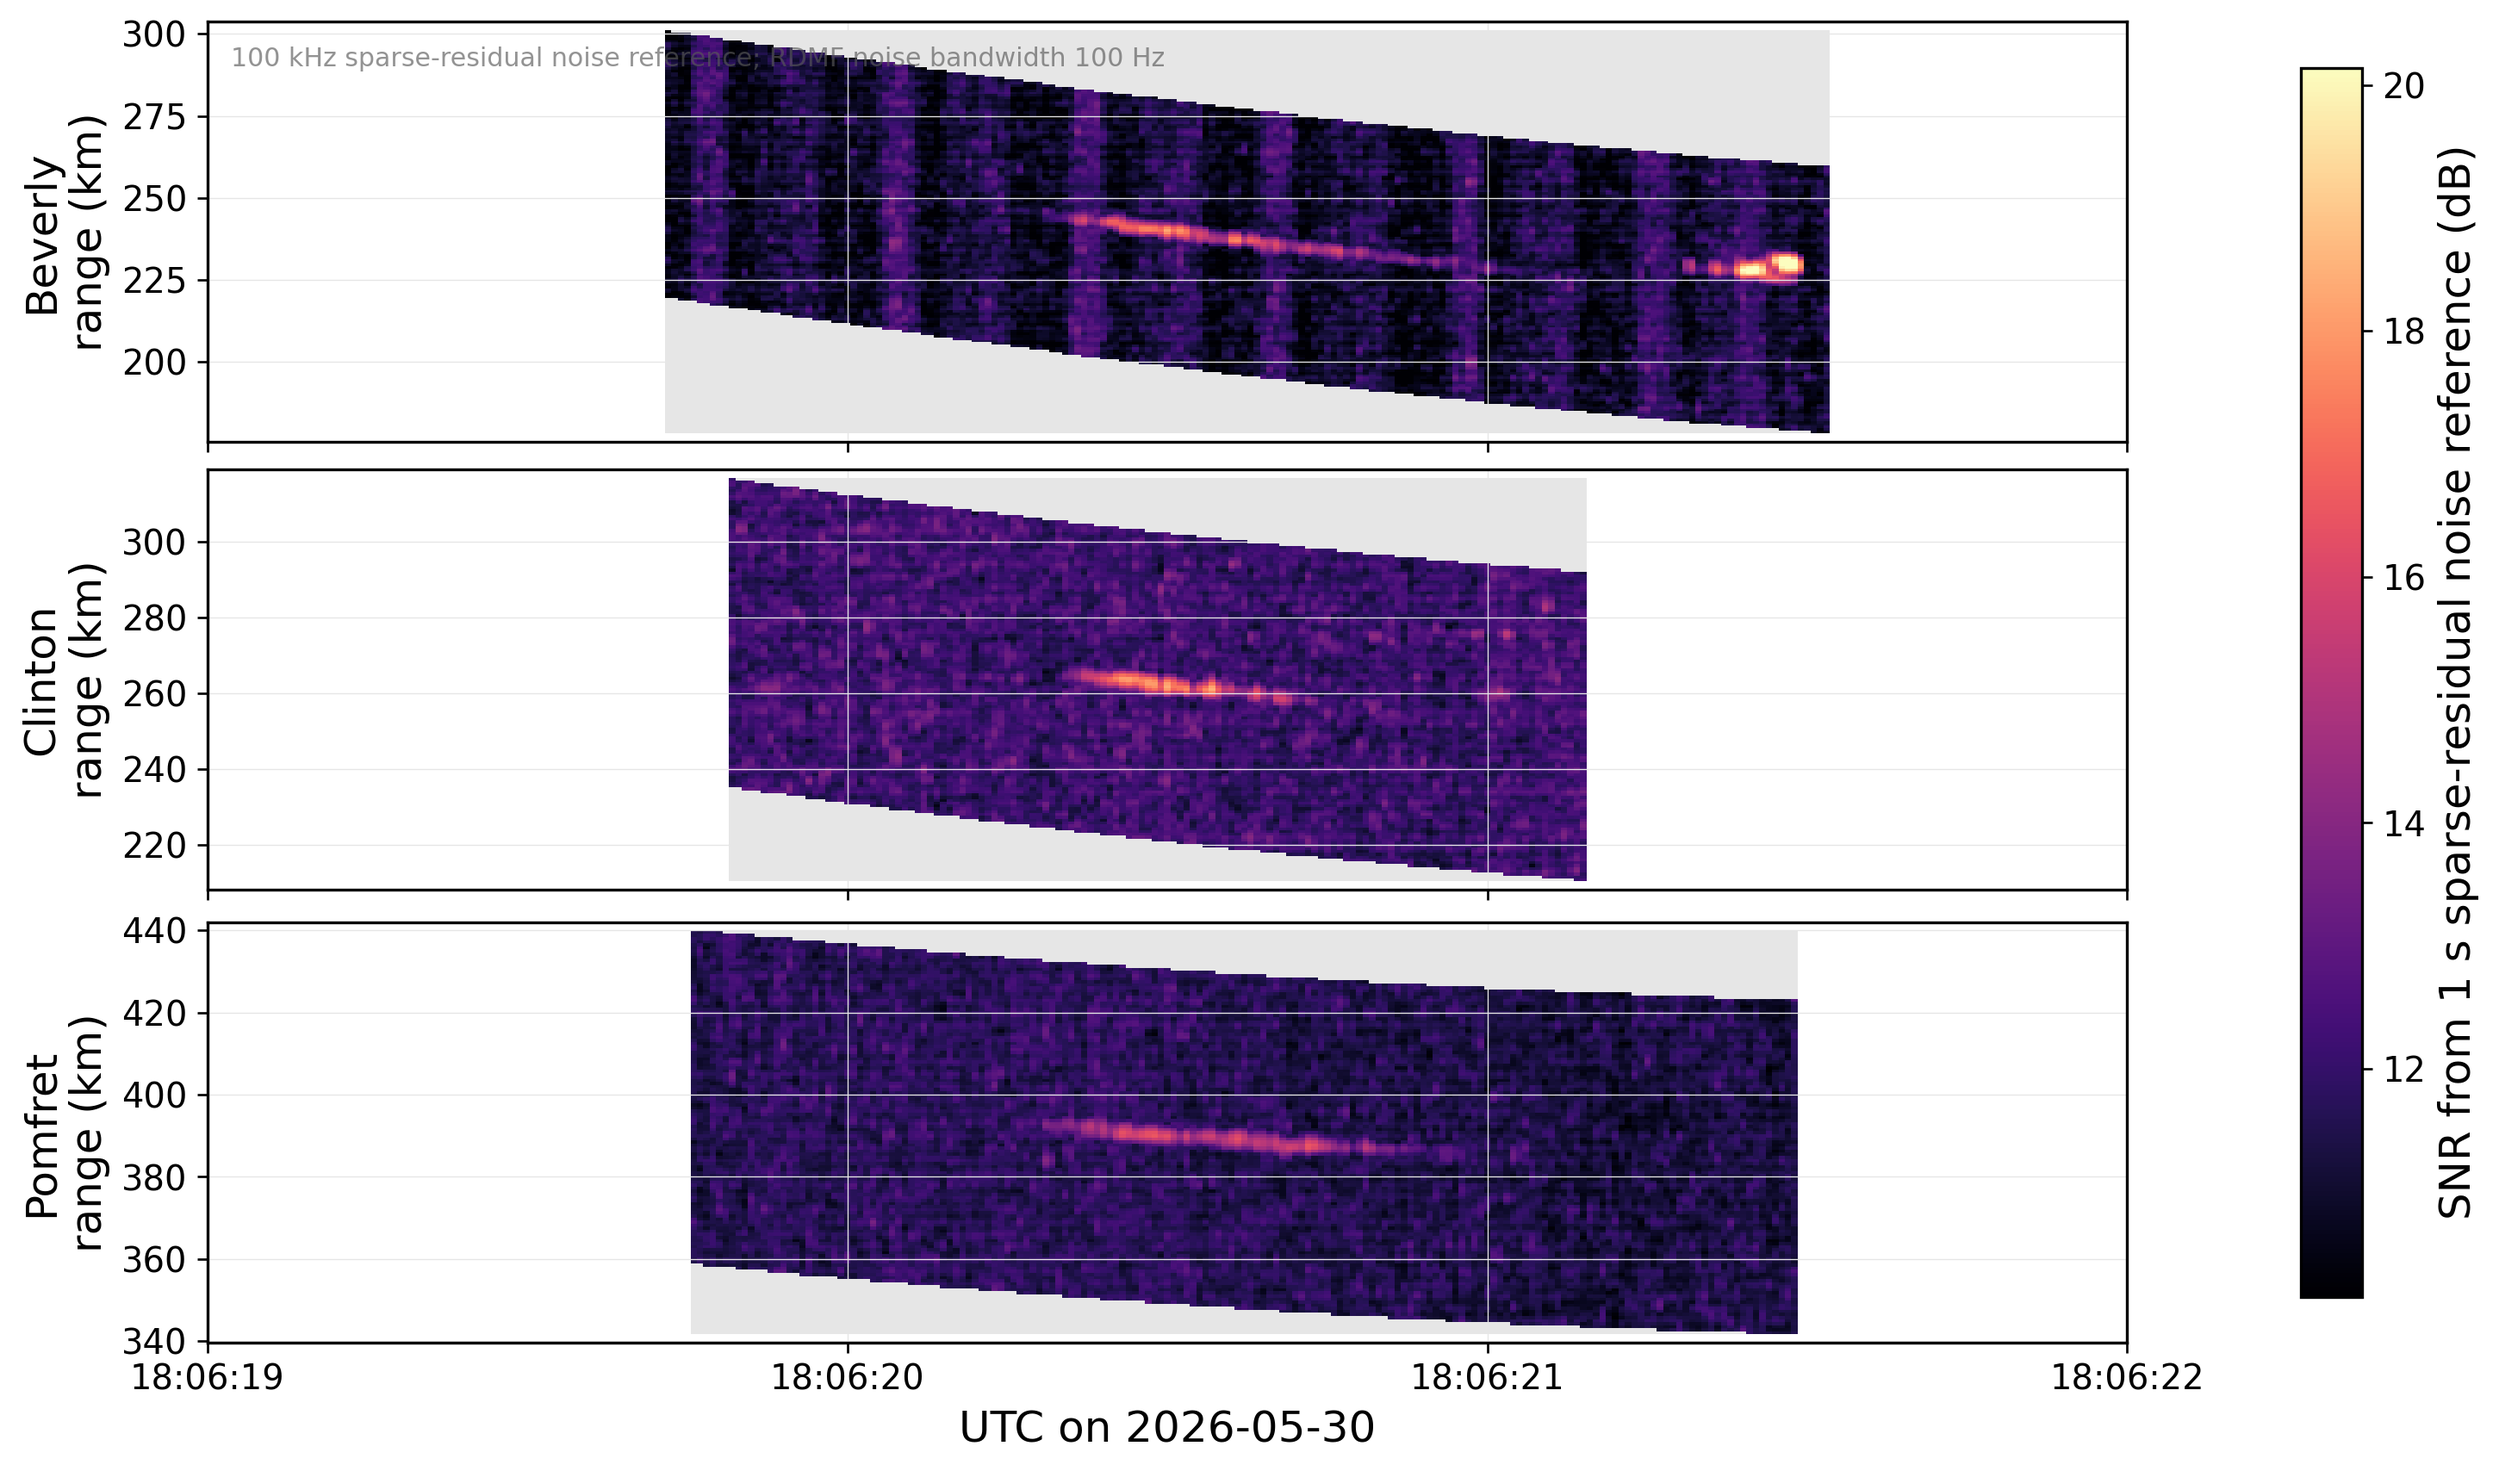
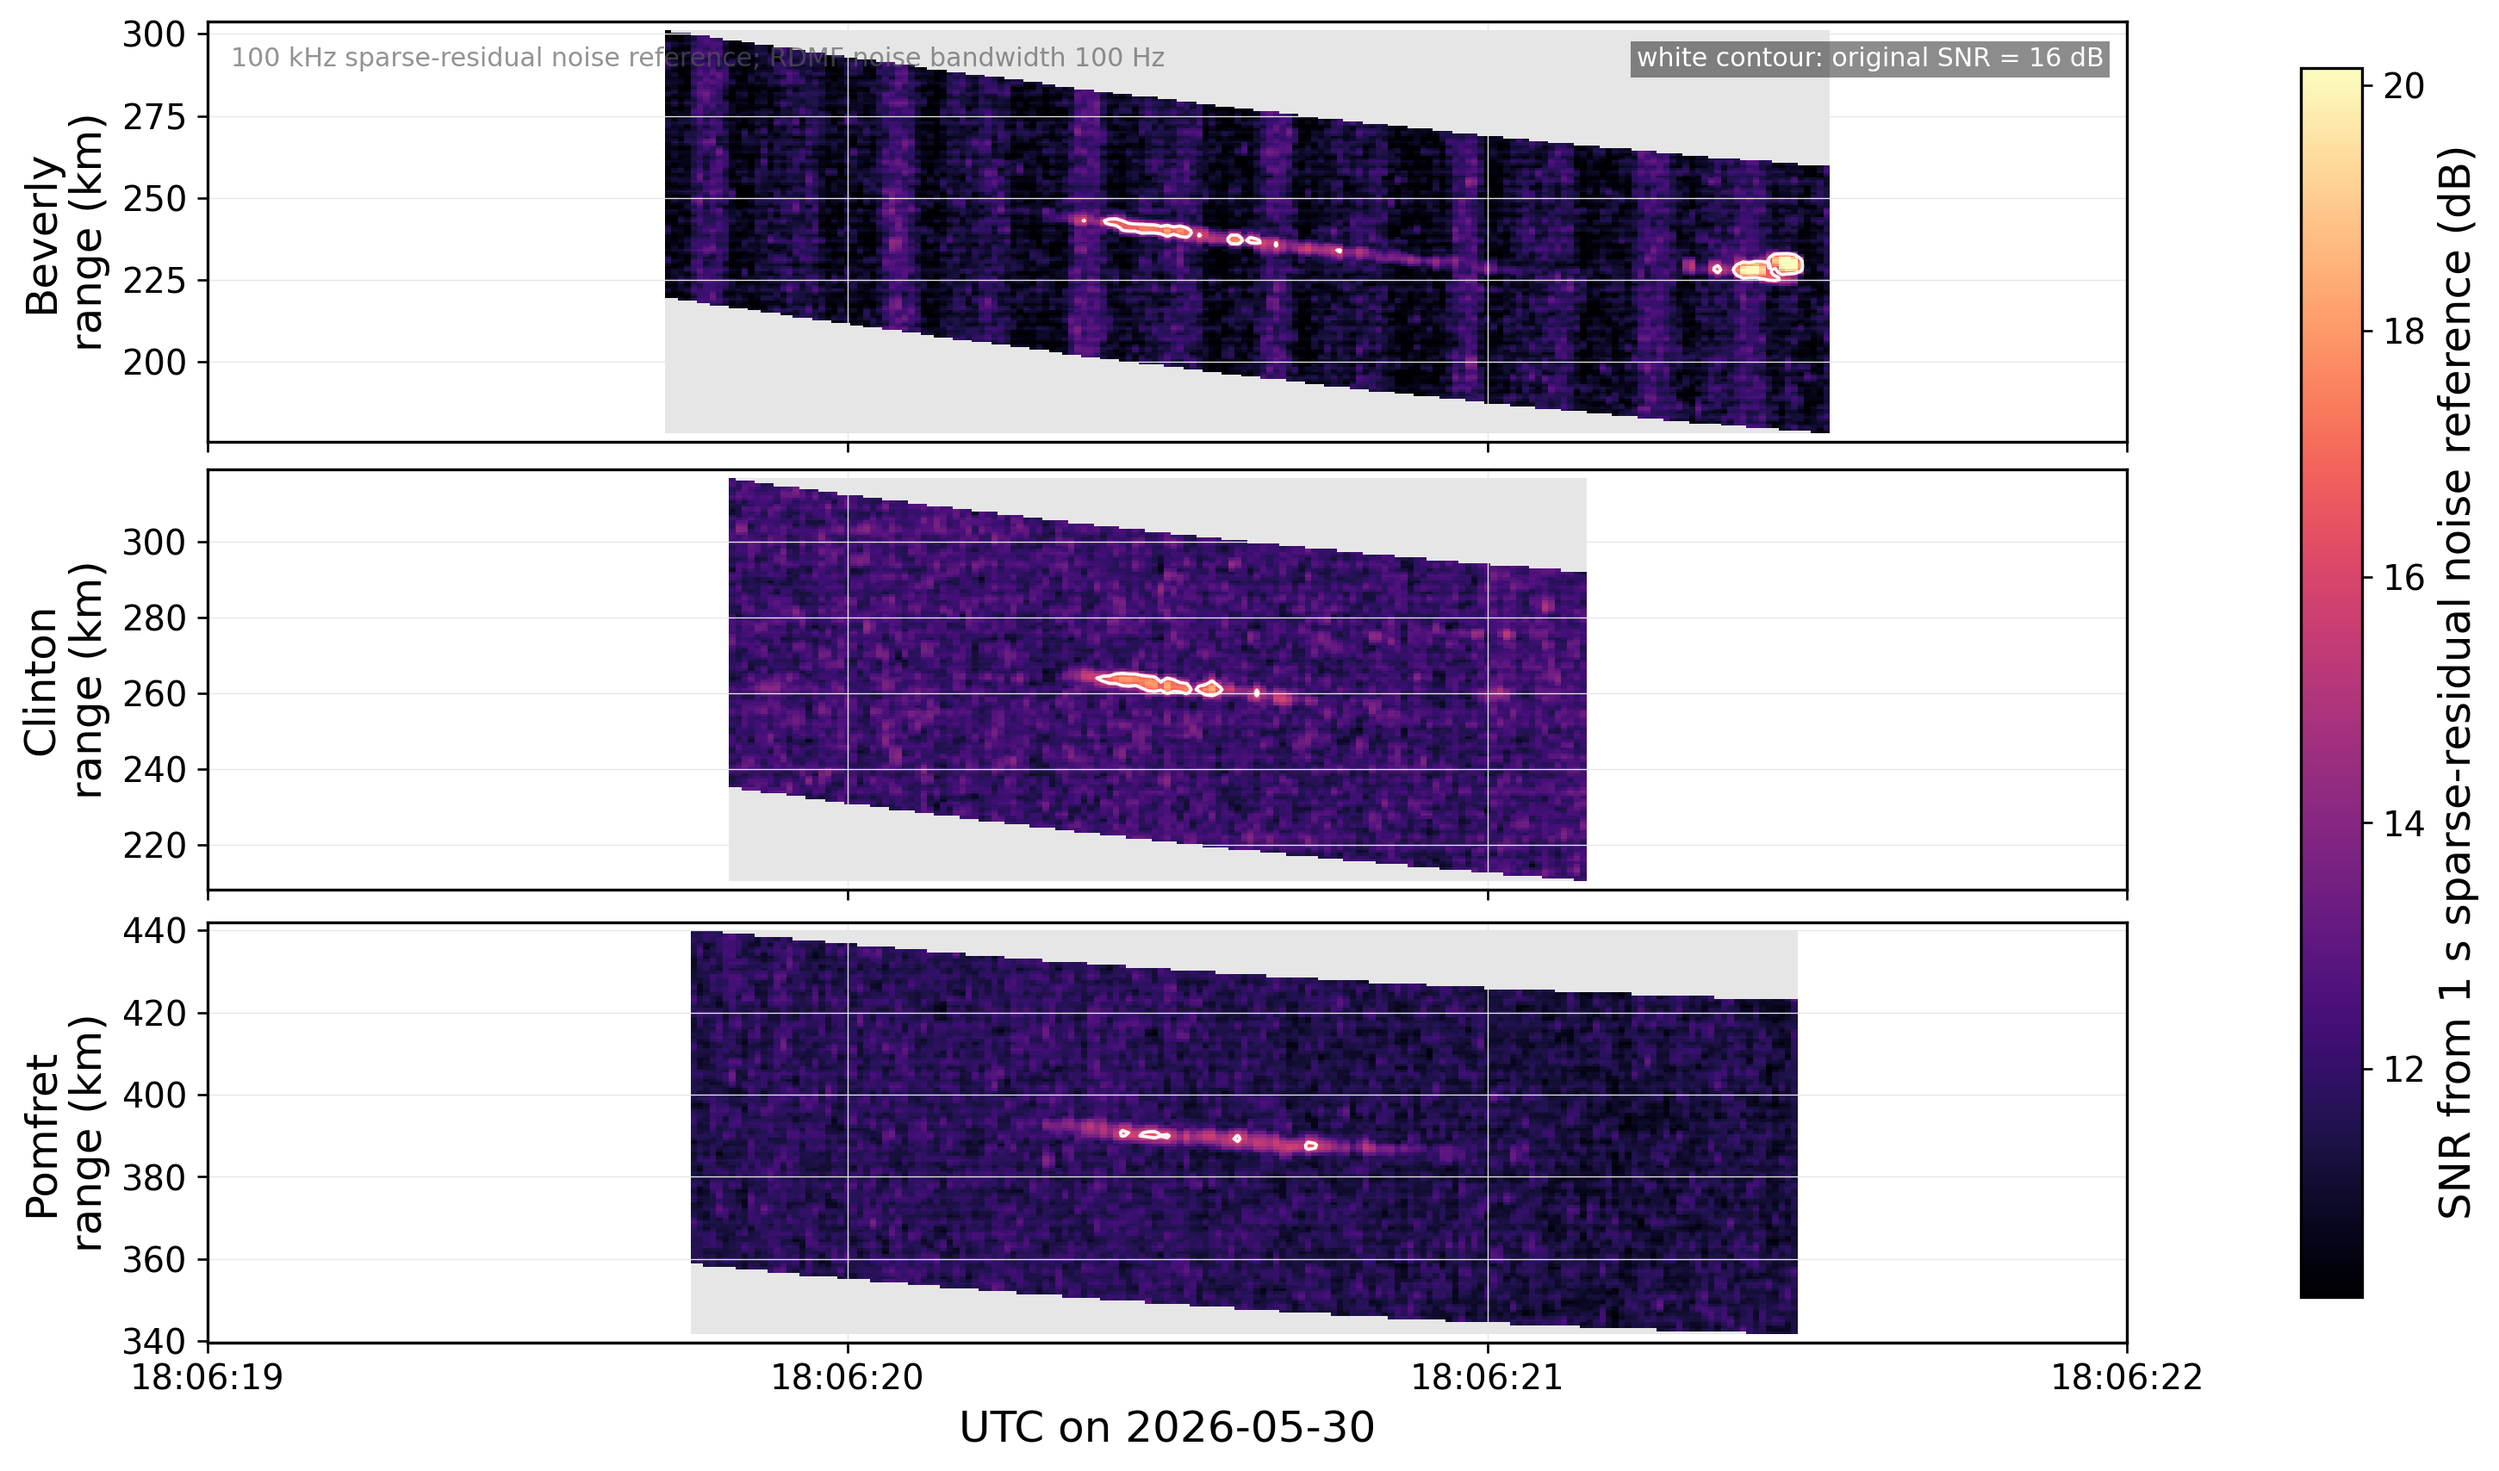
Mark high-SNR contour in head SNR figures

Changed region(s): [[0.6515, 0.031, 0.8687, 0.0621], [0.6825, 0.1552, 0.7135, 0.1862], [0.4343, 0.4344, 0.4654, 0.4655]]

diff --git a/reports/generate_station_head_snr_from_noise_reference.py b/reports/generate_station_head_snr_from_noise_reference.py
@@ -211,10 +211,24 @@ def load_results(path: Path) -> tuple[list[dict], dict]:
     return datasets, metadata
 
 
-def plot_results(datasets: list[dict], metadata: dict, out_fig: Path, *, vmin_db: float | None = None, vmax_db: float | None = None) -> None:
+def datasets_by_station(datasets: list[dict]) -> dict[str, dict]:
+    return {str(data["station"]): data for data in datasets}
+
+
+def plot_results(
+    datasets: list[dict],
+    metadata: dict,
+    out_fig: Path,
+    *,
+    vmin_db: float | None = None,
+    vmax_db: float | None = None,
+    contour_datasets: list[dict] | None = None,
+    contour_level_db: float = 16.0,
+) -> None:
     vals = np.concatenate([data["snr_db"][np.isfinite(data["snr_db"])] for data in datasets])
     vmin = float(vmin_db) if vmin_db is not None else (max(-10.0, float(np.nanpercentile(vals, 2.0))) if vals.size else -10.0)
     vmax = float(vmax_db) if vmax_db is not None else (min(35.0, max(vmin + 10.0, float(np.nanpercentile(vals, 99.5)))) if vals.size else 25.0)
+    contour_by_station = datasets_by_station(contour_datasets or [])
 
     plt.rcParams.update(
         {
@@ -231,8 +245,9 @@ def plot_results(datasets: list[dict], metadata: dict, out_fig: Path, *, vmin_db
     axes = np.atleast_1d(axes)
     mesh = None
     for ax, data in zip(axes, datasets, strict=True):
+        x = unix_to_mpl(data["time_unix"])
         mesh = ax.pcolormesh(
-            bin_edges(unix_to_mpl(data["time_unix"])),
+            bin_edges(x),
             bin_edges(data["range_km"]),
             data["snr_db"].T,
             shading="auto",
@@ -240,6 +255,19 @@ def plot_results(datasets: list[dict], metadata: dict, out_fig: Path, *, vmin_db
             vmin=vmin,
             vmax=vmax,
         )
+        contour_data = contour_by_station.get(data["station"])
+        if contour_data is not None:
+            contour_vals = np.asarray(contour_data["snr_db"], dtype=float)
+            if np.nanmin(contour_vals) < contour_level_db < np.nanmax(contour_vals):
+                ax.contour(
+                    unix_to_mpl(contour_data["time_unix"]),
+                    contour_data["range_km"],
+                    contour_vals.T,
+                    levels=[contour_level_db],
+                    colors="white",
+                    linewidths=1.15,
+                    alpha=0.95,
+                )
         ax.set_ylabel(f"{STATION_LABELS.get(data['station'], data['station'])}\nrange (km)")
         ax.set_ylim(data["rmin_km"], data["rmax_km"])
         ax.grid(True, color="0.9", linewidth=0.4)
@@ -258,6 +286,18 @@ def plot_results(datasets: list[dict], metadata: dict, out_fig: Path, *, vmin_db
         color="0.35",
         alpha=0.65,
     )
+    if contour_datasets is not None:
+        axes[0].text(
+            0.988,
+            0.94,
+            f"white contour: original SNR = {contour_level_db:g} dB",
+            transform=axes[0].transAxes,
+            ha="right",
+            va="top",
+            fontsize=9,
+            color="white",
+            bbox={"facecolor": "black", "alpha": 0.45, "edgecolor": "none", "pad": 2},
+        )
     axes[-1].set_xlabel("UTC on 2026-05-30")
     if mesh is not None:
         fig.colorbar(mesh, ax=axes, label="SNR from 1 s sparse-residual noise reference (dB)", shrink=0.93)
@@ -299,12 +339,25 @@ def main() -> None:
     parser.add_argument("--n-channels", type=int, default=2)
     parser.add_argument("--vmin-db", type=float, default=None)
     parser.add_argument("--vmax-db", type=float, default=None)
+    parser.add_argument("--contour-h5", type=Path, default=None)
+    parser.add_argument("--contour-level-db", type=float, default=16.0)
     args = parser.parse_args()
     if args.mode in {"compute", "both"}:
         compute(args)
     if args.mode in {"plot", "both"}:
         datasets, metadata = load_results(args.output_h5)
-        plot_results(datasets, metadata, args.output_fig, vmin_db=args.vmin_db, vmax_db=args.vmax_db)
+        contour_datasets = None
+        if args.contour_h5 is not None:
+            contour_datasets, _contour_metadata = load_results(args.contour_h5)
+        plot_results(
+            datasets,
+            metadata,
+            args.output_fig,
+            vmin_db=args.vmin_db,
+            vmax_db=args.vmax_db,
+            contour_datasets=contour_datasets,
+            contour_level_db=args.contour_level_db,
+        )
         print(args.output_fig, flush=True)
 
 
